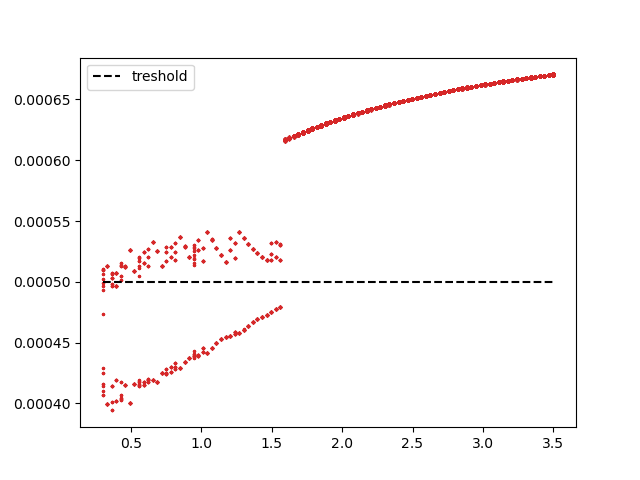
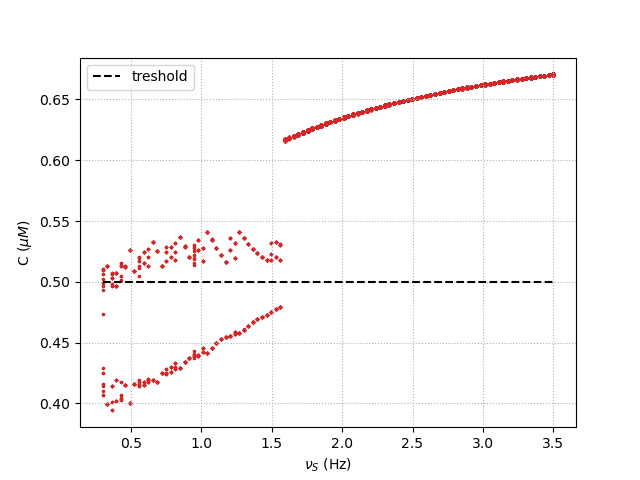
import images

diff --git a/AstrocyteNeuron_Interactions/Astrocyte-Neuron/biforcation_analysis.py b/AstrocyteNeuron_Interactions/Astrocyte-Neuron/biforcation_analysis.py
@@ -4,7 +4,8 @@ Biforcation analysis fro saved data
 import argparse
 import numpy as np
 import matplotlib.pyplot as plt
-from scipy.signal import argrelextrema
+from scipy.signal import argrelextrema, welch
+from scipy.fft import fft, ifft
 from brian2 import *
 
 def Biforcation_brian(variable, control_par, t_relax):
@@ -133,42 +134,67 @@ if __name__ == "__main__":
 	Gamma_S = np.load(f'{name}/Gamma_S.npy')
 	#################################################################################################
 	
+	array_plot = np.arange(5,55,5)
+
 	## Biforcation
 	par_list_c, C_bif = Biforcation_brian(C, rate_in, t_relax=int(t_relax/dt_astro))
 
 	## Period
 	period_list, period_list_err = Period_brian(C, t_astro, t_relax=int(t_relax/dt_astro))
 	
+	## Fourier analysis -and periods estimation
+	fig4, ax4 = plt.subplots(nrows=1, ncols=1, num='Spectral analysis')
+	for r in array_plot:
+		# yf = fft(C[r])
+		# xf = fftfreq(NN, dt_astro)[:NN//2]
+		# plt.plot(xf, 2.0/NN * np.abs(yf[0:NN//2]), label='fft')
+		NN = len(C[r])
+		f, Pxx_den = welch(C[r], 1/dt_astro, nperseg=NN//4)		
+		ax4.plot(f, Pxx_den, label=f'{rate_in[r]:.2f} (Hz)')
+	ax4.legend()
+	ax4.set_xlabel('frequency (Hz)')
+	ax4.set_xlim([-0.2, 1.0])
+	ax4.grid(linestyle='dotted')
+	
+
+
 	plt.figure()
 	plt.errorbar(rate_in, period_list, period_list_err,fmt='o', markersize=4, lw=0.4)
 
 	## Plots #######################################################################################
-	array_plot = [4,7,40]
+	
 	print(f'rate_in = {rate_in[0]/Hz} - {rate_in[-1]/Hz}')
 
 	C_theta = 0.0005
 	fig1, ax1 = plt.subplots(nrows=1,ncols=1, num='bifurcation') 
-	plt.hlines(C_theta, rate_in[0], rate_in[-1], color='k', ls='dashed', label='treshold')
+	ax1.hlines(C_theta/umolar, rate_in[0], rate_in[-1], color='k', ls='dashed', label='treshold')
 	for p, c in zip(par_list_c, C_bif):
-		plt.scatter(p, c, color='C3', s=2.0)
-	plt.legend()
+		ax1.scatter(p, c/umolar, color='C3', s=2.0)
+	ax1.set_xlabel(r'$\nu_S$ (Hz)')
+	ax1.set_ylabel(r'C ($\mu M$)')
+	ax1.grid(linestyle='dotted')
+	ax1.legend()
 	
 
 
 	fig2, ax2 = plt.subplots(nrows=1,ncols=1, num='astro variable C') 
 	for r in array_plot:
-		plt.plot(t_astro, C[r], label=rate_in[r])
-	plt.legend()
+		ax2.plot(t_astro[int(t_relax/dt_astro):], C[r,int(t_relax/dt_astro):]/umolar, label=f'{rate_in[r]/Hz:.2f} (Hz)')
+	ax2.legend()
+	ax2.set_xlabel('time (s)')
+	ax2.set_ylabel(r'C ($\mu M$)')
+	ax2.grid(linestyle='dotted')
+	
 
 	fig3, ax3 = plt.subplots(nrows=1,ncols=1, num='synaptic variable Y_S') 
 	for r in array_plot:
-		plt.plot(t_syn, Y_S[r], label=rate_in[r])
+		plt.plot(t_syn, Y_S[r], label=f'{rate_in[r]/Hz:.2f} (Hz)')
 		plt.plot()
 	plt.legend()
 
 	fig3, ax3 = plt.subplots(nrows=1,ncols=1, num='sybaptic variable r_S Gamma_S') 
 	for i,r in enumerate(array_plot):
-		plt.plot(t_syn, r_S[r], c=f'C{i}',label=rate_in[r])
+		plt.plot(t_syn, r_S[r], c=f'C{i}',label=f'{rate_in[r]/Hz:.2f} (Hz)')
 		plt.plot(t_syn, Gamma_S[r], c=f'C{i}')
 		plt.plot()
 	plt.legend()
